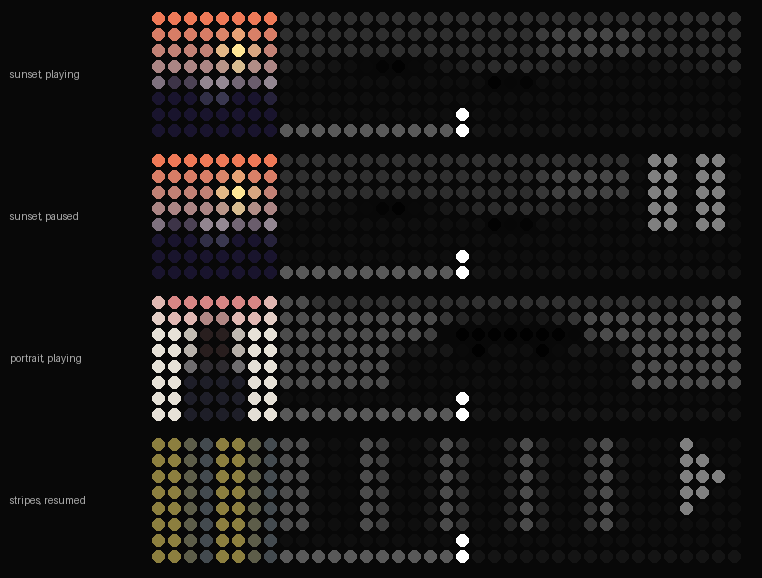
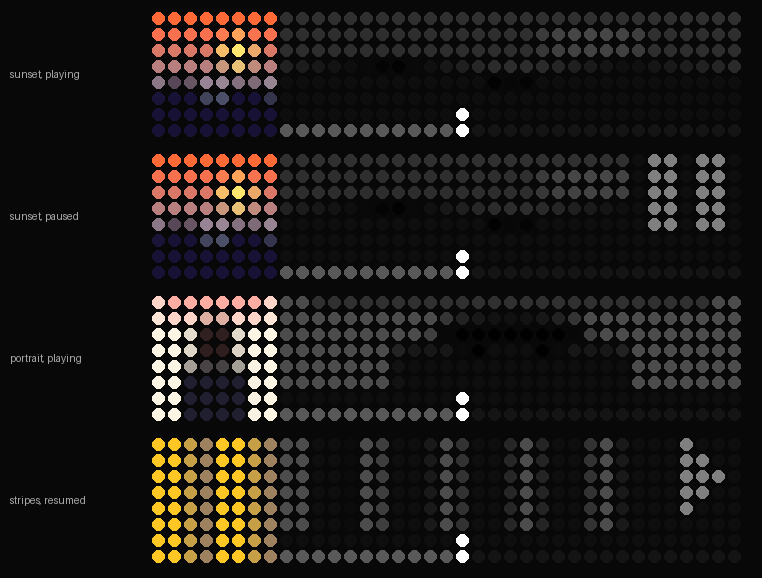
more colors

diff --git a/lametric.py b/lametric.py
@@ -20,9 +20,10 @@ import time
 import xml.etree.ElementTree as ET
 from http.server import BaseHTTPRequestHandler, ThreadingHTTPServer
 
+import numpy as np
 import requests
 import urllib3
-from PIL import Image, ImageOps
+from PIL import Image, ImageEnhance, ImageOps
 
 from nowplaying import PLAYING_STATES, Player
 
@@ -105,6 +106,25 @@ def clear(frame, x0, y0, x1, y1):
     for x in range(max(0, x0), min(w, x1 + 1)):
         for y in range(max(0, y0), min(h, y1 + 1)):
             frame.putpixel((x, y), (0, 0, 0))
+
+
+def make_art(cover, side, saturation=1.5, max_gain=2.0):
+    """Shrinks the cover to side x side LEDs so it still pops.
+
+    Averages in linear light (plain averaging of gamma-encoded pixels comes out too dark),
+    boosts saturation (mixing a block of colours drifts to grey), then stretches the
+    levels so the brightest LED is near full, by at most max_gain so dark covers stay dark.
+    """
+    n = 8  # source pixels per LED, per axis
+    src = np.asarray(cover.convert("RGB").resize((side * n, side * n), Image.BOX), dtype=np.float32) / 255
+    linear = src ** 2.2
+    avg = linear.reshape(side, n, side, n, 3).mean(axis=(1, 3)) ** (1 / 2.2)
+    art = Image.fromarray(np.uint8(np.clip(avg * 255 + 0.5, 0, 255)))
+    art = ImageEnhance.Color(art).enhance(saturation)
+    a = np.asarray(art, dtype=np.float32)
+    peak = np.percentile(a.max(axis=2), 95)
+    gain = min(max_gain, 255 / peak) if peak > 0 else 1.0
+    return Image.fromarray(np.uint8(np.clip(a * gain, 0, 255)))
 
 
 def make_wash(cover, size):
@@ -198,7 +218,7 @@ class Playback:
         return min(pos, total) if total else pos
 
 
-def poll_bluos(player, playback, size):
+def poll_bluos(player, playback, size, saturation):
     """Background thread: long-polls BluOS, which answers at once on any change."""
     etag, art_url = None, None
     while True:
@@ -214,8 +234,7 @@ def poll_bluos(player, playback, size):
             print("%s: %s - %s" % (status.get("state"), status.get("title2"), status.get("title1")))
             cover = player.fetch_art(art_url) if art_url else None
             h = size[1]
-            # BOX averages each block; NEAREST would keep one arbitrary pixel per ~75x75 block.
-            art = cover.resize((h, h), Image.BOX) if cover else None
+            art = make_art(cover, h, saturation) if cover else None
             wash = make_wash(cover, size) if cover else None
             playback.update(status, True, art, wash)
         else:
@@ -260,6 +279,8 @@ def main():
     p.add_argument("--track", type=float, default=Look.track, help="brightness of the unplayed part (0-1, 0 = off)")
     p.add_argument("--icon", type=float, default=Look.icon,
                    help="brightness of the play/pause/stop icon (0-1, 0 = off)")
+    p.add_argument("--saturation", type=float, default=1.5,
+                   help="colour boost for the 8x8 cover (1 = as is)")
     p.add_argument("--wash", type=float, default=Look.wash,
                    help="max brightness of the greyscale cover behind the right block (0-1, 0 = off)")
     p.add_argument("--ramp", action="store_true", help="show a brightness test card for 20 s and exit")
@@ -287,7 +308,7 @@ def main():
         serve_buttons(args.port, player)
 
     playback = Playback()
-    threading.Thread(target=poll_bluos, args=(player, playback, clock.size), daemon=True).start()
+    threading.Thread(target=poll_bluos, args=(player, playback, clock.size, args.saturation), daemon=True).start()
 
     last_playing = time.monotonic()
     was_playing, play_since = True, 0.0

diff --git a/preview.py b/preview.py
@@ -71,7 +71,7 @@ def lametric_preview(path):
     out = Image.new("RGB", (LW + size[0] * S + 20, (size[1] * S + 14) * len(rows) + 10), (8, 8, 8))
     d = ImageDraw.Draw(out)
     for i, (label, cover, icon) in enumerate(rows):
-        art = cover.resize((size[1], size[1]), Image.BOX)
+        art = lametric.make_art(cover, size[1])
         frame = lametric.render(size, art, 0.4, lametric.Look, lametric.make_wash(cover, size), icon)
         oy = 10 + i * (size[1] * S + 14)
         d.text((10, oy + size[1] * S // 2 - 6), label, fill=LABEL)
